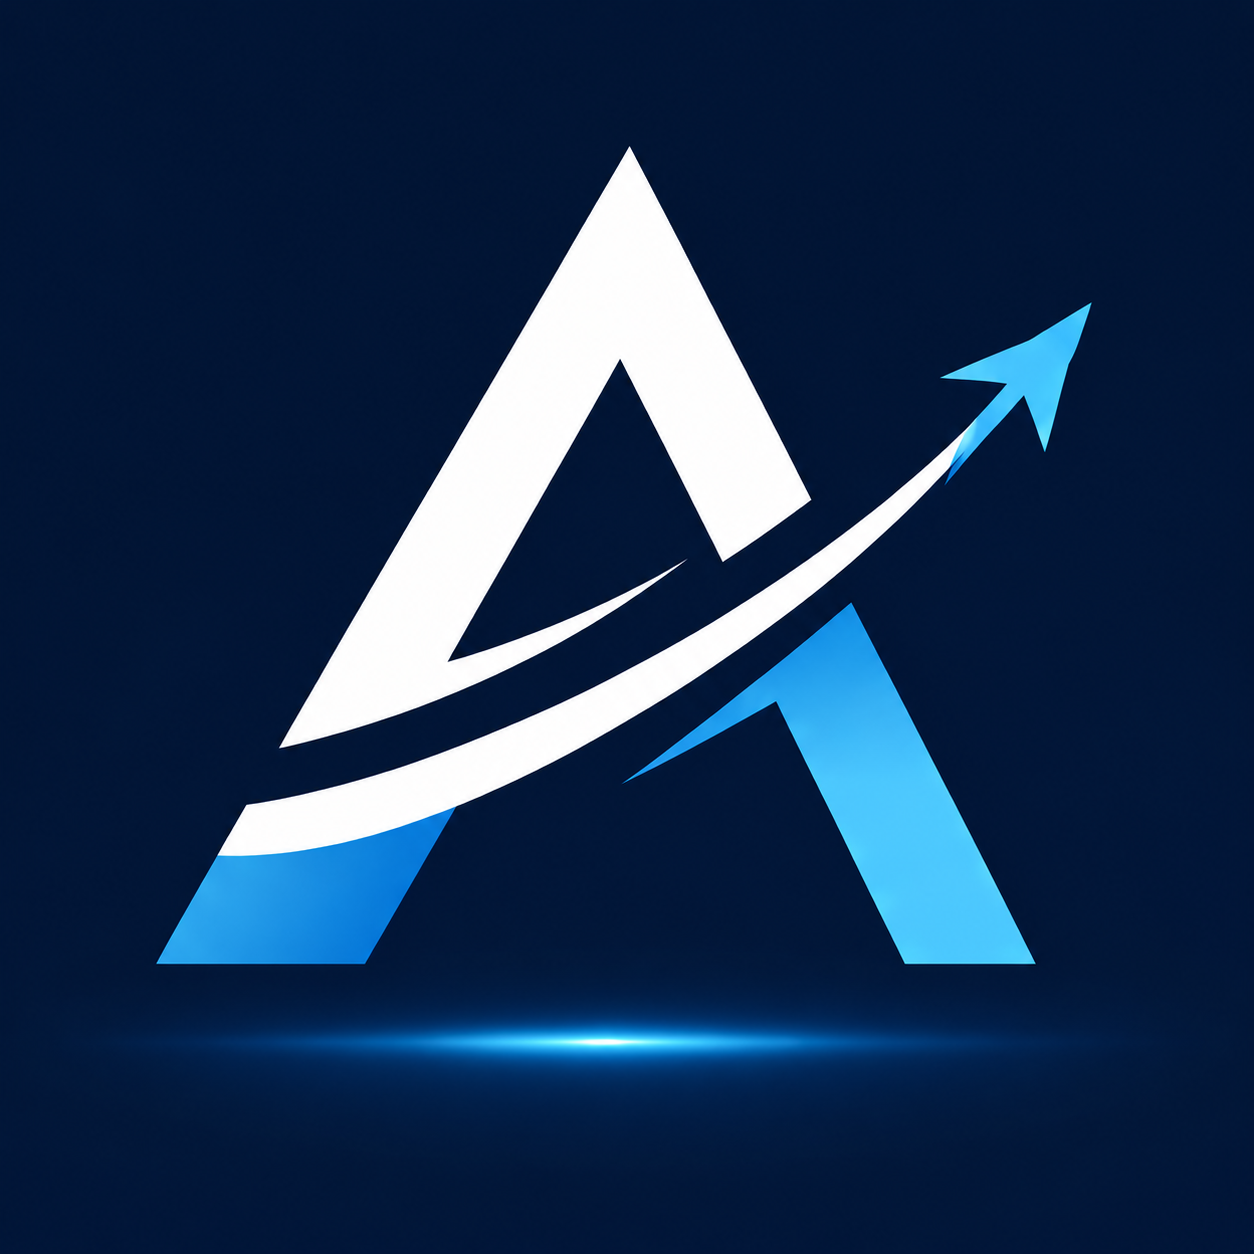
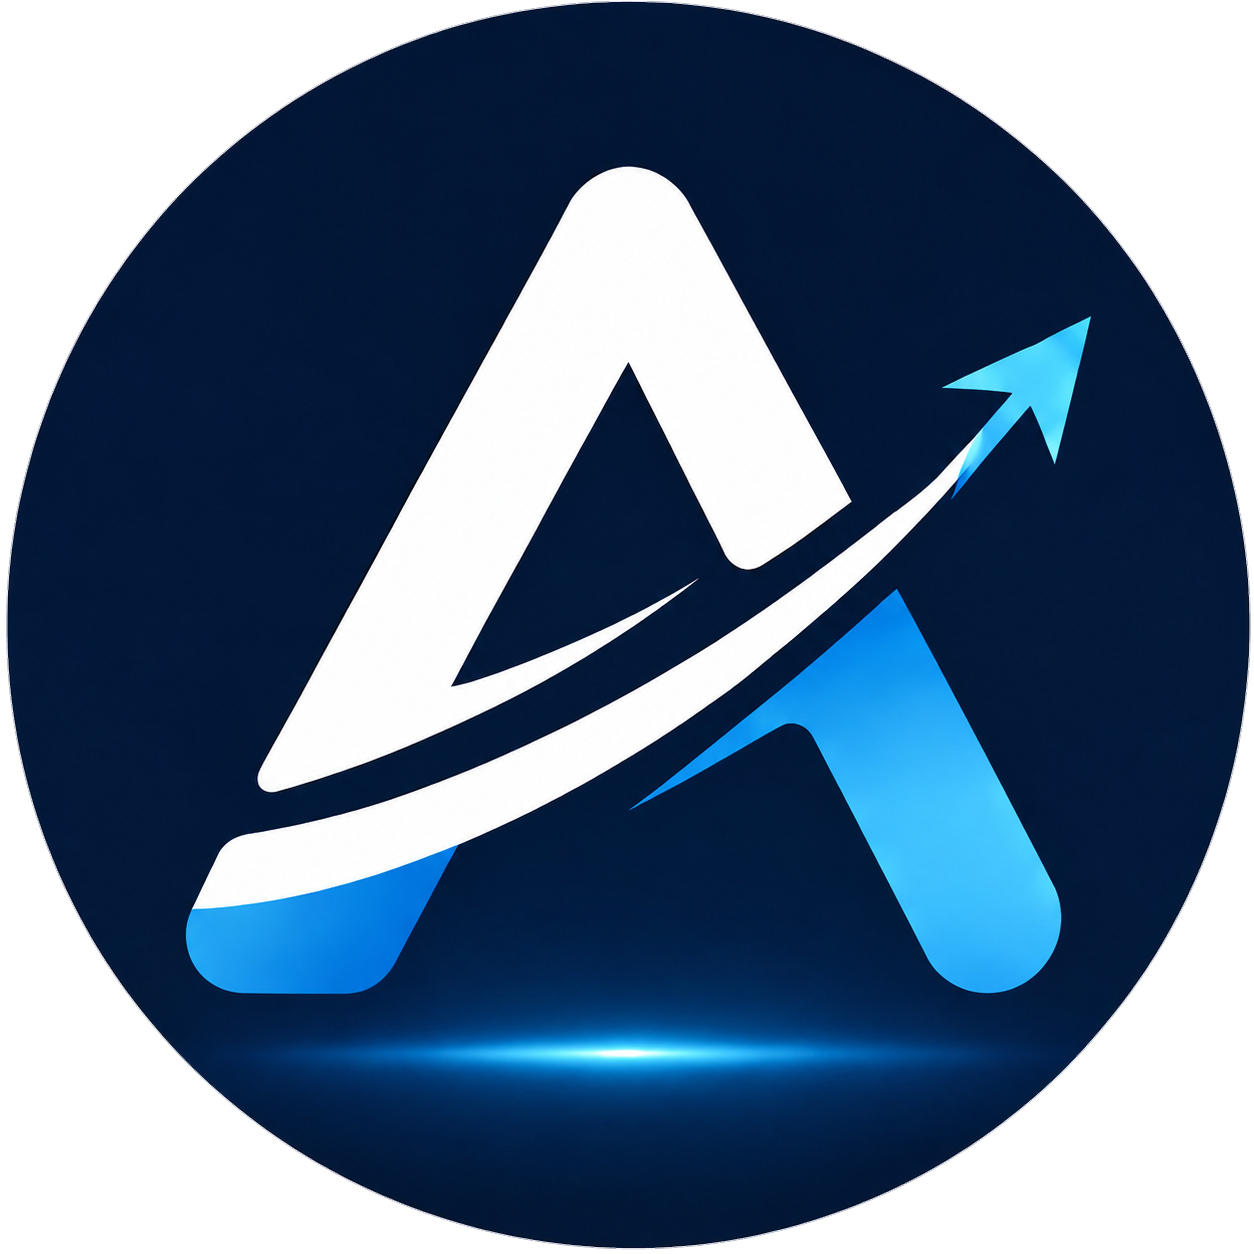
fix: new brand images were edited in staticfiles/, and cached for a year
Two separate reasons the replaced logos never appeared on the site.

1. The transparent versions were saved into staticfiles/, which is
   collectstatic's output directory and is gitignored, so they were
   never committed and would be overwritten on the next deploy anyway.
   Confirmed by inspection: static/ held RGB images with an opaque
   corner pixel, staticfiles/ held RGBA with corner (0,0,0,0). The five
   new images are now in static/, the source directory.

2. Even once committed they would have stayed stale. Static filenames
   were unhashed while WHITENOISE_MAX_AGE was a year, so an edited file
   kept its URL and every browser that had seen it kept its copy. The
   manual ?v= markers only covered CSS/JS, never the images.

   Static files are now content-hashed in production
   (app.css -> app.a13c6b7e3fc4.css), which makes the long cache header
   correct and cache-busting automatic. The storage class falls back to
   the unhashed path instead of raising, so a stale reference cannot
   take a page down, and plain storage is used off production because
   hashing needs collectstatic to have run.

   Removes the 12 now-redundant ?v= markers and routes the favicon
   redirect through the hashed URL.

diff --git a/templates/aeroesp/base.html b/templates/aeroesp/base.html
@@ -22,7 +22,7 @@
     <link
         rel="icon"
         type="image/svg+xml"
-        href="{% static 'aeroesp/brand/final/aeroesp-app-icon.png' %}?v=ui17"
+        href="{% static 'aeroesp/brand/final/aeroesp-app-icon.png' %}"
     >
 
     <script>
@@ -46,7 +46,7 @@
 
     <link
         rel="stylesheet"
-        href="{% static 'aeroesp/css/app.css' %}?v=ui17"
+        href="{% static 'aeroesp/css/app.css' %}"
     >
 
     {% block extra_css %}
@@ -749,7 +749,7 @@
 
 
 <script
-    src="{% static 'aeroesp/js/app.js' %}?v=ui17"
+    src="{% static 'aeroesp/js/app.js' %}"
 ></script>
 
 

diff --git a/templates/aeroesp/public_base.html b/templates/aeroesp/public_base.html
@@ -27,7 +27,7 @@
     <link
         rel="icon"
         type="image/svg+xml"
-        href="{% static 'aeroesp/brand/final/aeroesp-app-icon.png' %}?v=ui17"
+        href="{% static 'aeroesp/brand/final/aeroesp-app-icon.png' %}"
     >
 
     <script>
@@ -69,7 +69,7 @@
 
     <link
         rel="stylesheet"
-        href="{% static 'aeroesp/css/app.css' %}?v=ui17"
+        href="{% static 'aeroesp/css/app.css' %}"
     >
 
     {% block extra_css %}
@@ -296,7 +296,7 @@
 
 
 <script
-    src="{% static 'aeroesp/js/app.js' %}?v=ui17"
+    src="{% static 'aeroesp/js/app.js' %}"
 ></script>
 
 

diff --git a/research_review/templates/research_review/base.html b/research_review/templates/research_review/base.html
@@ -55,12 +55,12 @@
 
     <link
         rel="stylesheet"
-        href="{% static 'aeroesp/css/app.css' %}?v=ui17"
+        href="{% static 'aeroesp/css/app.css' %}"
     >
 
     <link
         rel="stylesheet"
-        href="{% static 'research_review/review.css' %}?v=2"
+        href="{% static 'research_review/review.css' %}"
     >
 
 </head>
@@ -278,7 +278,7 @@
 
 
 <script
-    src="{% static 'aeroesp/js/app.js' %}?v=ui17"
+    src="{% static 'aeroesp/js/app.js' %}"
 ></script>
 
 

diff --git a/accounts/templates/registration/register.html b/accounts/templates/registration/register.html
@@ -68,7 +68,7 @@ Register · AeroESP
         <div class="auth-card-brand">
 
             <h2>
-                Create Account
+                Create Account  
             </h2>
 
             <p>

diff --git a/research_review/templates/research_review/dashboard.html b/research_review/templates/research_review/dashboard.html
@@ -4,7 +4,7 @@
 {% block extra_css %}
 <link
     rel="stylesheet"
-    href="{% static 'research_review/review.css' %}?v=3"
+    href="{% static 'research_review/review.css' %}"
 >
 {% endblock %}
 

diff --git a/research_review/templates/research_review/review_item.html b/research_review/templates/research_review/review_item.html
@@ -4,7 +4,7 @@
 {% block extra_css %}
 <link
     rel="stylesheet"
-    href="{% static 'research_review/review.css' %}?v=3"
+    href="{% static 'research_review/review.css' %}"
 >
 {% endblock %}
 

diff --git a/templates/admin/base_site.html b/templates/admin/base_site.html
@@ -11,7 +11,7 @@
 
 <link
     rel="stylesheet"
-    href="{% static 'admin/css/aeroesp_admin.css' %}?v=3"
+    href="{% static 'admin/css/aeroesp_admin.css' %}"
 >
 
 {% endblock %}

diff --git a/config/storage.py b/config/storage.py
@@ -1,0 +1,61 @@
+import logging
+
+from whitenoise.storage import CompressedManifestStaticFilesStorage
+
+
+logger = logging.getLogger(__name__)
+
+
+class ForgivingManifestStaticFilesStorage(
+    CompressedManifestStaticFilesStorage
+):
+    """
+    Content-hashed static filenames, without the 500s.
+
+    collectstatic renames every file to include a hash of its contents
+    (app.css -> app.4f3a2b1c.css), so an edited file gets a new URL and
+    browsers fetch it immediately. That is what makes a one-year cache
+    header safe: with stable names, a changed logo keeps its URL and
+    visitors keep the copy they already cached.
+
+    The default storage raises when a template references a file it
+    cannot hash, which turns one stale reference into a completely
+    broken page. Here that degrades to serving the unhashed path: the
+    asset may be cached longer than intended, but the page renders.
+    """
+
+    manifest_strict = False
+
+    def stored_name(self, name):
+
+        try:
+            return super().stored_name(name)
+
+        except ValueError:
+            # Raised when the file is absent from both the manifest and
+            # STATIC_ROOT - a reference to something that no longer
+            # exists, or a collectstatic that has not run yet.
+            logger.warning(
+                "Static file %r has no hashed name; serving the "
+                "unhashed path. Run collectstatic if this is "
+                "unexpected.",
+                name,
+            )
+
+            return name
+
+    def url(self, name, force=False):
+
+        try:
+            return super().url(name, force=force)
+
+        except ValueError:
+            logger.warning(
+                "Could not build a hashed URL for static file %r.",
+                name,
+            )
+
+            return super(
+                CompressedManifestStaticFilesStorage,
+                self,
+            ).url(name)

diff --git a/config/urls.py b/config/urls.py
@@ -1,11 +1,14 @@
 from django.conf import settings
 from django.conf.urls.static import static
 from django.contrib import admin
+from django.shortcuts import redirect
+# Aliased: django.conf.urls.static.static (imported above, for serving
+# MEDIA in development) has the same name and a different job.
+from django.templatetags.static import static as static_url
 from django.urls import (
     include,
     path,
 )
-from django.views.generic import RedirectView
 
 from accounts import views as account_views
 
@@ -35,14 +38,15 @@ urlpatterns = [
         name="health_ready",
     ),
 
+    # Resolved per request rather than hardcoded, so the redirect
+    # points at the content-hashed filename and a replaced icon is
+    # picked up instead of being served from cache for a year.
     path(
         "favicon.ico",
-        RedirectView.as_view(
-            url=(
-                "/static/aeroesp/brand/final/"
-                "aeroesp-app-icon.png?v=ui17"
-            ),
-            permanent=False,
+        lambda request: redirect(
+            static_url(
+                "aeroesp/brand/final/aeroesp-app-icon.png"
+            )
         ),
     ),
 

diff --git a/config/settings.py b/config/settings.py
@@ -443,9 +443,9 @@ MEDIA_ROOT = (
 )
 
 
-# WhiteNoise serves the collected static files in production.
-# CompressedStaticFilesStorage (no manifest) is used on purpose:
-# a missing file must not turn into a 500 on a live page.
+# WhiteNoise serves the collected static files in production, with
+# content-hashed filenames so that an edited asset gets a new URL.
+# See config/storage.py for why the manifest is non-strict.
 
 STORAGES = {
     "default": {
@@ -455,9 +455,16 @@ STORAGES = {
         ),
     },
     "staticfiles": {
+        # Hashing depends on collectstatic having run, which is not
+        # true while developing, so plain storage is used off
+        # production and the hashed names apply where the long cache
+        # header does.
         "BACKEND": (
-            "whitenoise.storage."
-            "CompressedStaticFilesStorage"
+            "config.storage."
+            "ForgivingManifestStaticFilesStorage"
+            if IS_PRODUCTION
+            else "django.contrib.staticfiles.storage."
+            "StaticFilesStorage"
         ),
     },
 }

diff --git a/accounts/views.py b/accounts/views.py
@@ -196,13 +196,15 @@ MAX_VERIFICATION_ATTEMPTS = 5
 
 
 def register(request):
-
+    
     if request.user.is_authenticated:
+        
         return redirect(
             "accounts:role_redirect"
         )
 
     if request.method == "POST":
+        
 
         form = RegistrationForm(
             request.POST
@@ -219,7 +221,7 @@ def register(request):
             user.save()
 
             verification = (
-                create_verification_code(user)
+                 create_verification_code(user)
             )
 
             delivered = send_verification_email(
